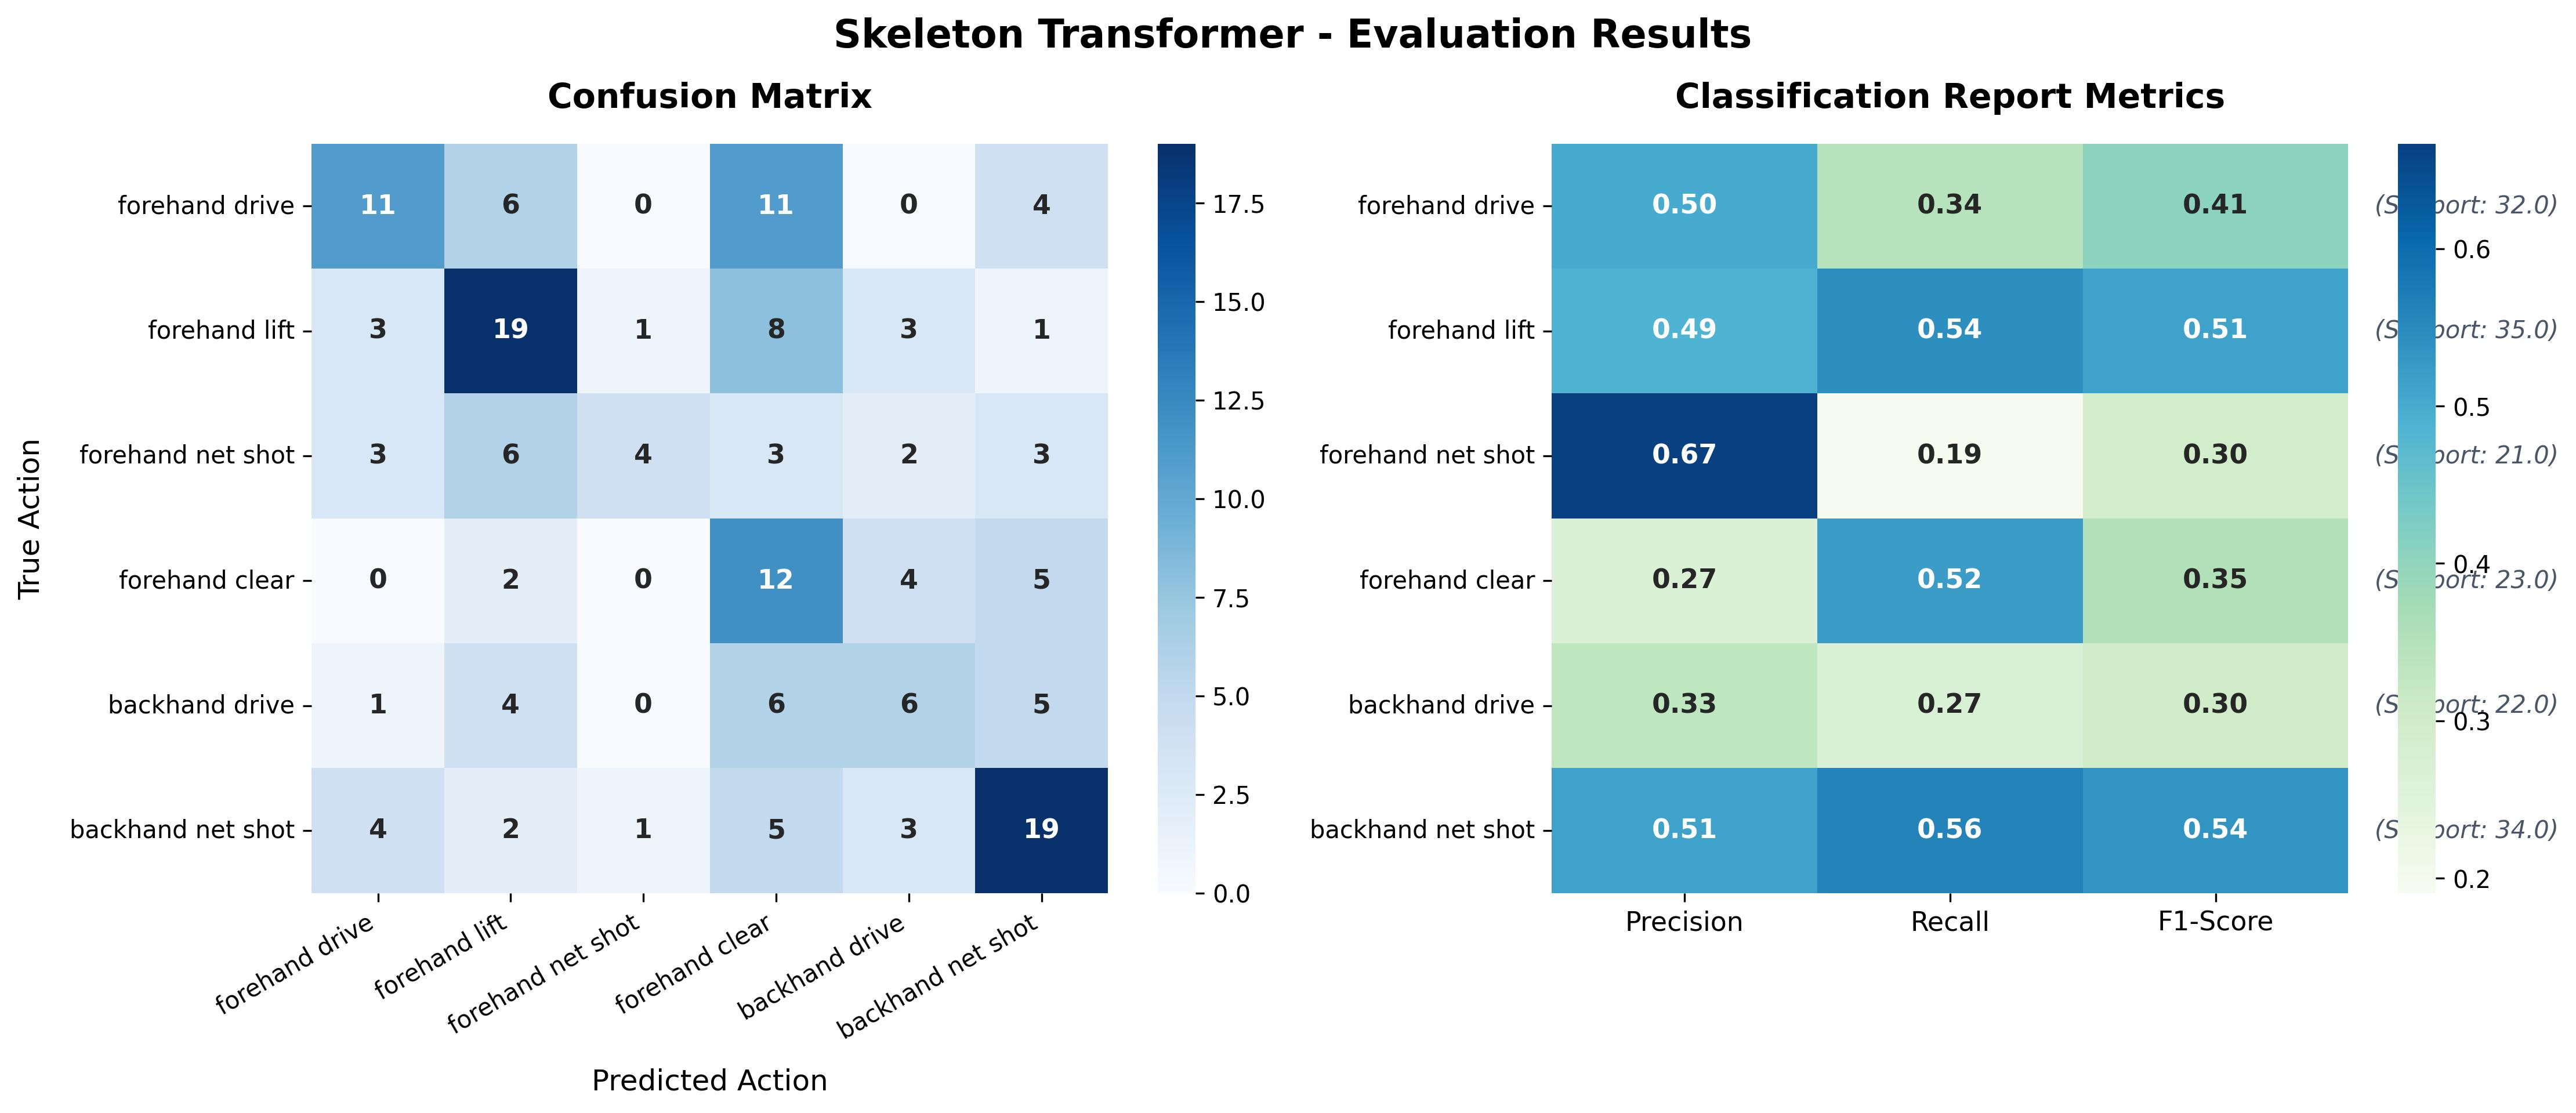
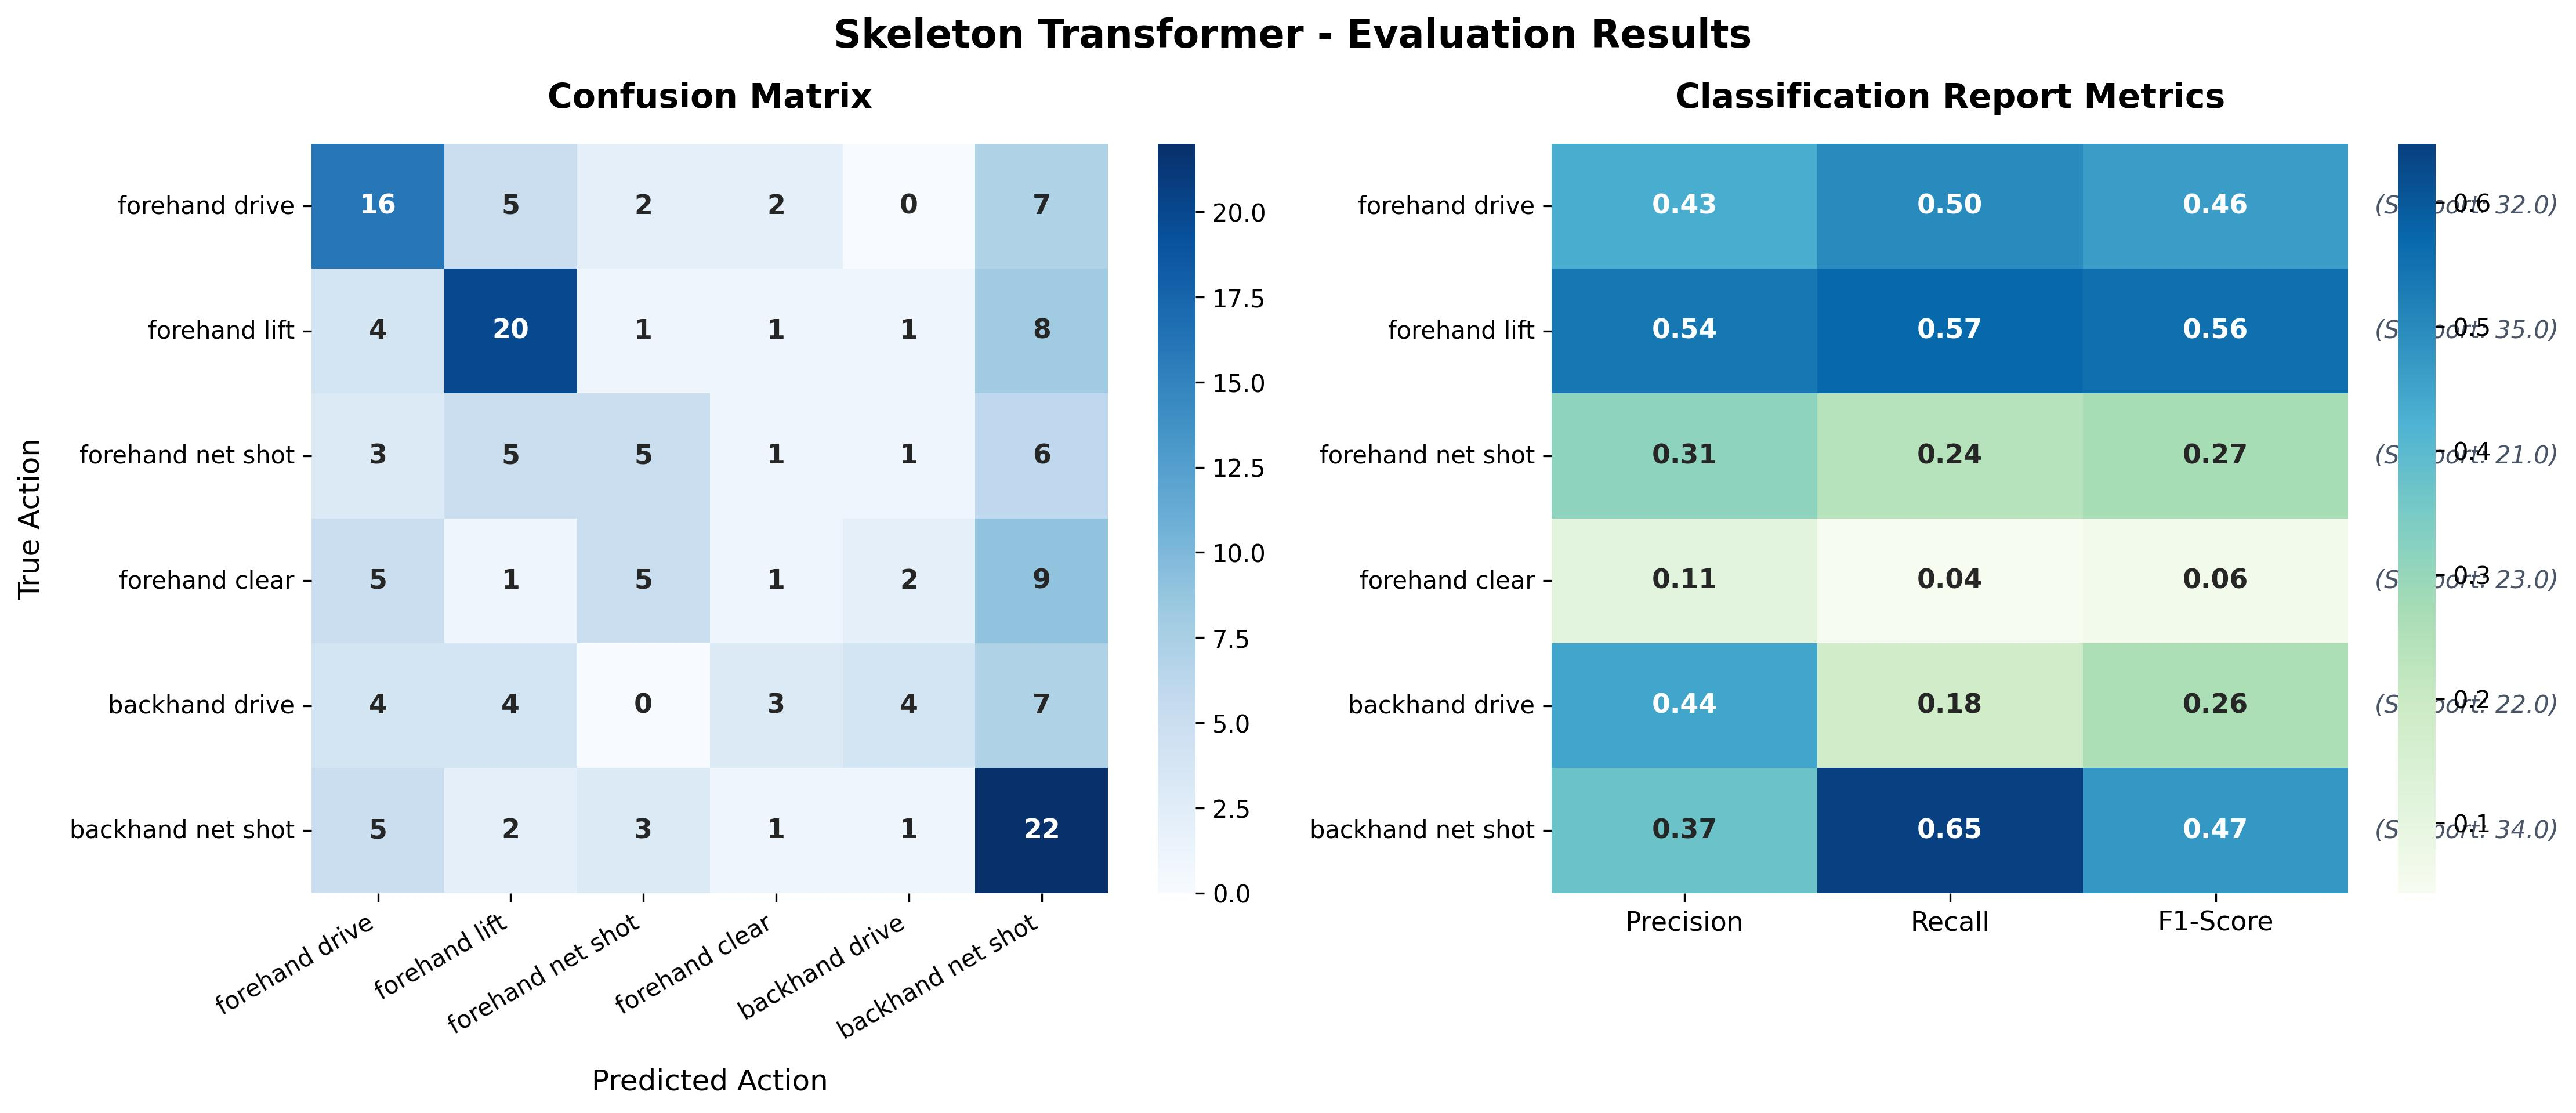
改进：增加随机种子

diff --git a/zuoye11/code/train.py b/zuoye11/code/train.py
@@ -1,5 +1,6 @@
 import os
 import math
+import random
 import torch
 import torch.nn as nn
 import torch.optim as optim
@@ -7,6 +8,20 @@ from torch.utils.data import Dataset, DataLoader
 import numpy as np
 from sklearn.preprocessing import LabelEncoder
 from sklearn.metrics import confusion_matrix, classification_report
+
+# ==========================================
+# 0. 固定所有的随机种子 (保证结果绝对一致)
+# ==========================================
+def set_seed(seed=42):
+    random.seed(seed)
+    np.random.seed(seed)
+    torch.manual_seed(seed)
+    torch.cuda.manual_seed(seed)
+    torch.cuda.manual_seed_all(seed) # 针对多GPU
+    torch.backends.cudnn.deterministic = True
+    torch.backends.cudnn.benchmark = False
+
+set_seed(42)
 
 # ==========================================
 # 1. 按照任务书与现有文件配置参数